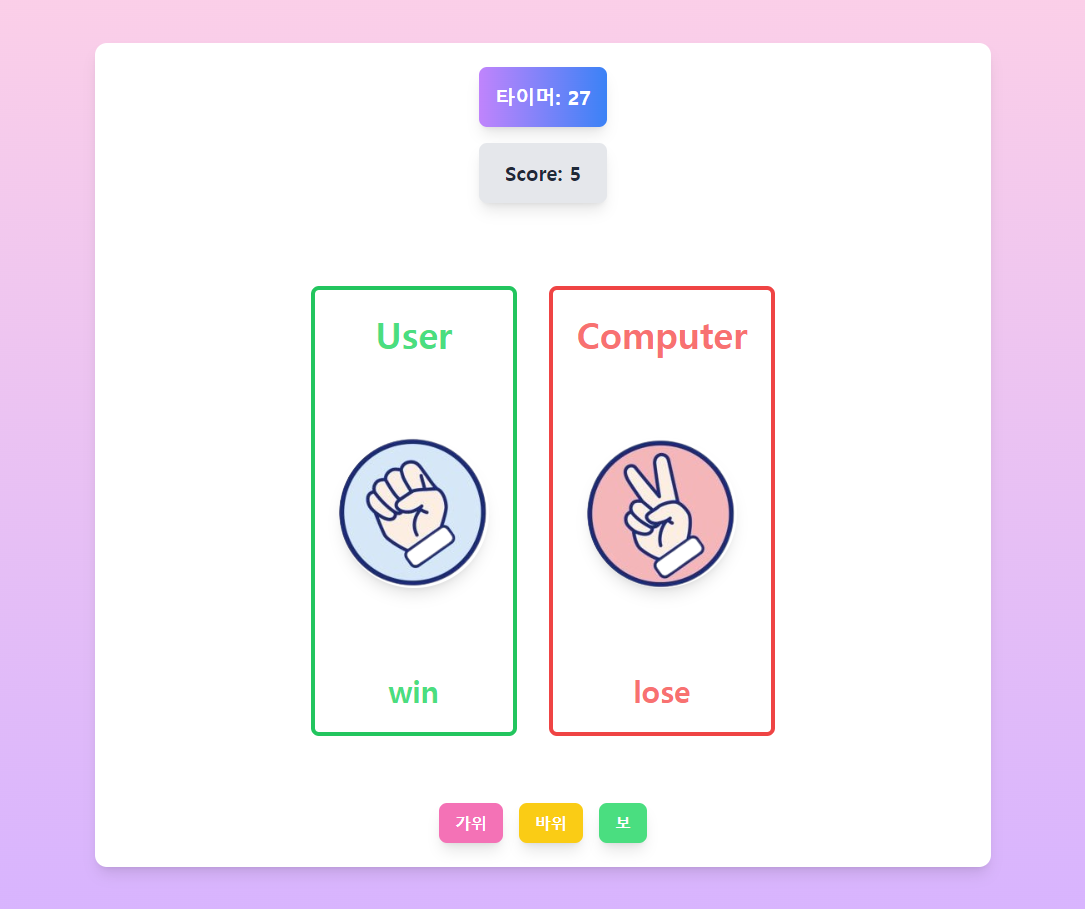
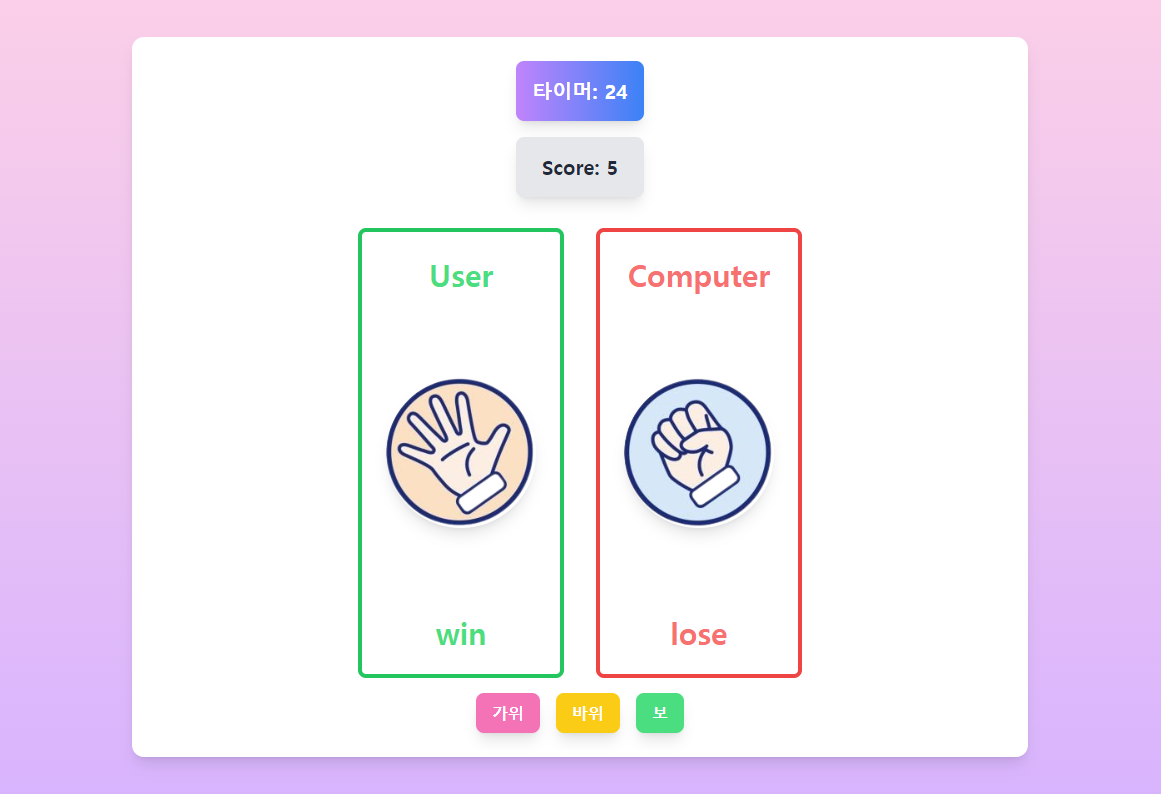
feat: Update responsive design and replace image

diff --git a/src/component/Box.jsx b/src/component/Box.jsx
@@ -24,7 +24,7 @@ const Box = ({ title, item }) => {
       className={`border-solid border-4 ${borderColor} rounded-lg h-[450px] p-6 flex flex-col items-center justify-between transition-all duration-300 max-sm:w-[150px] max-md:h-[400px]`}
     >
       <h1
-        className={`text-4xl font-semibold mb-2 ${fontColor} transition-all duration-300 max-sm:text-2xl`}
+        className={`text-3xl font-semibold mb-2 ${fontColor} transition-all duration-300 max-sm:text-2xl`}
       >
         {title}
       </h1>
